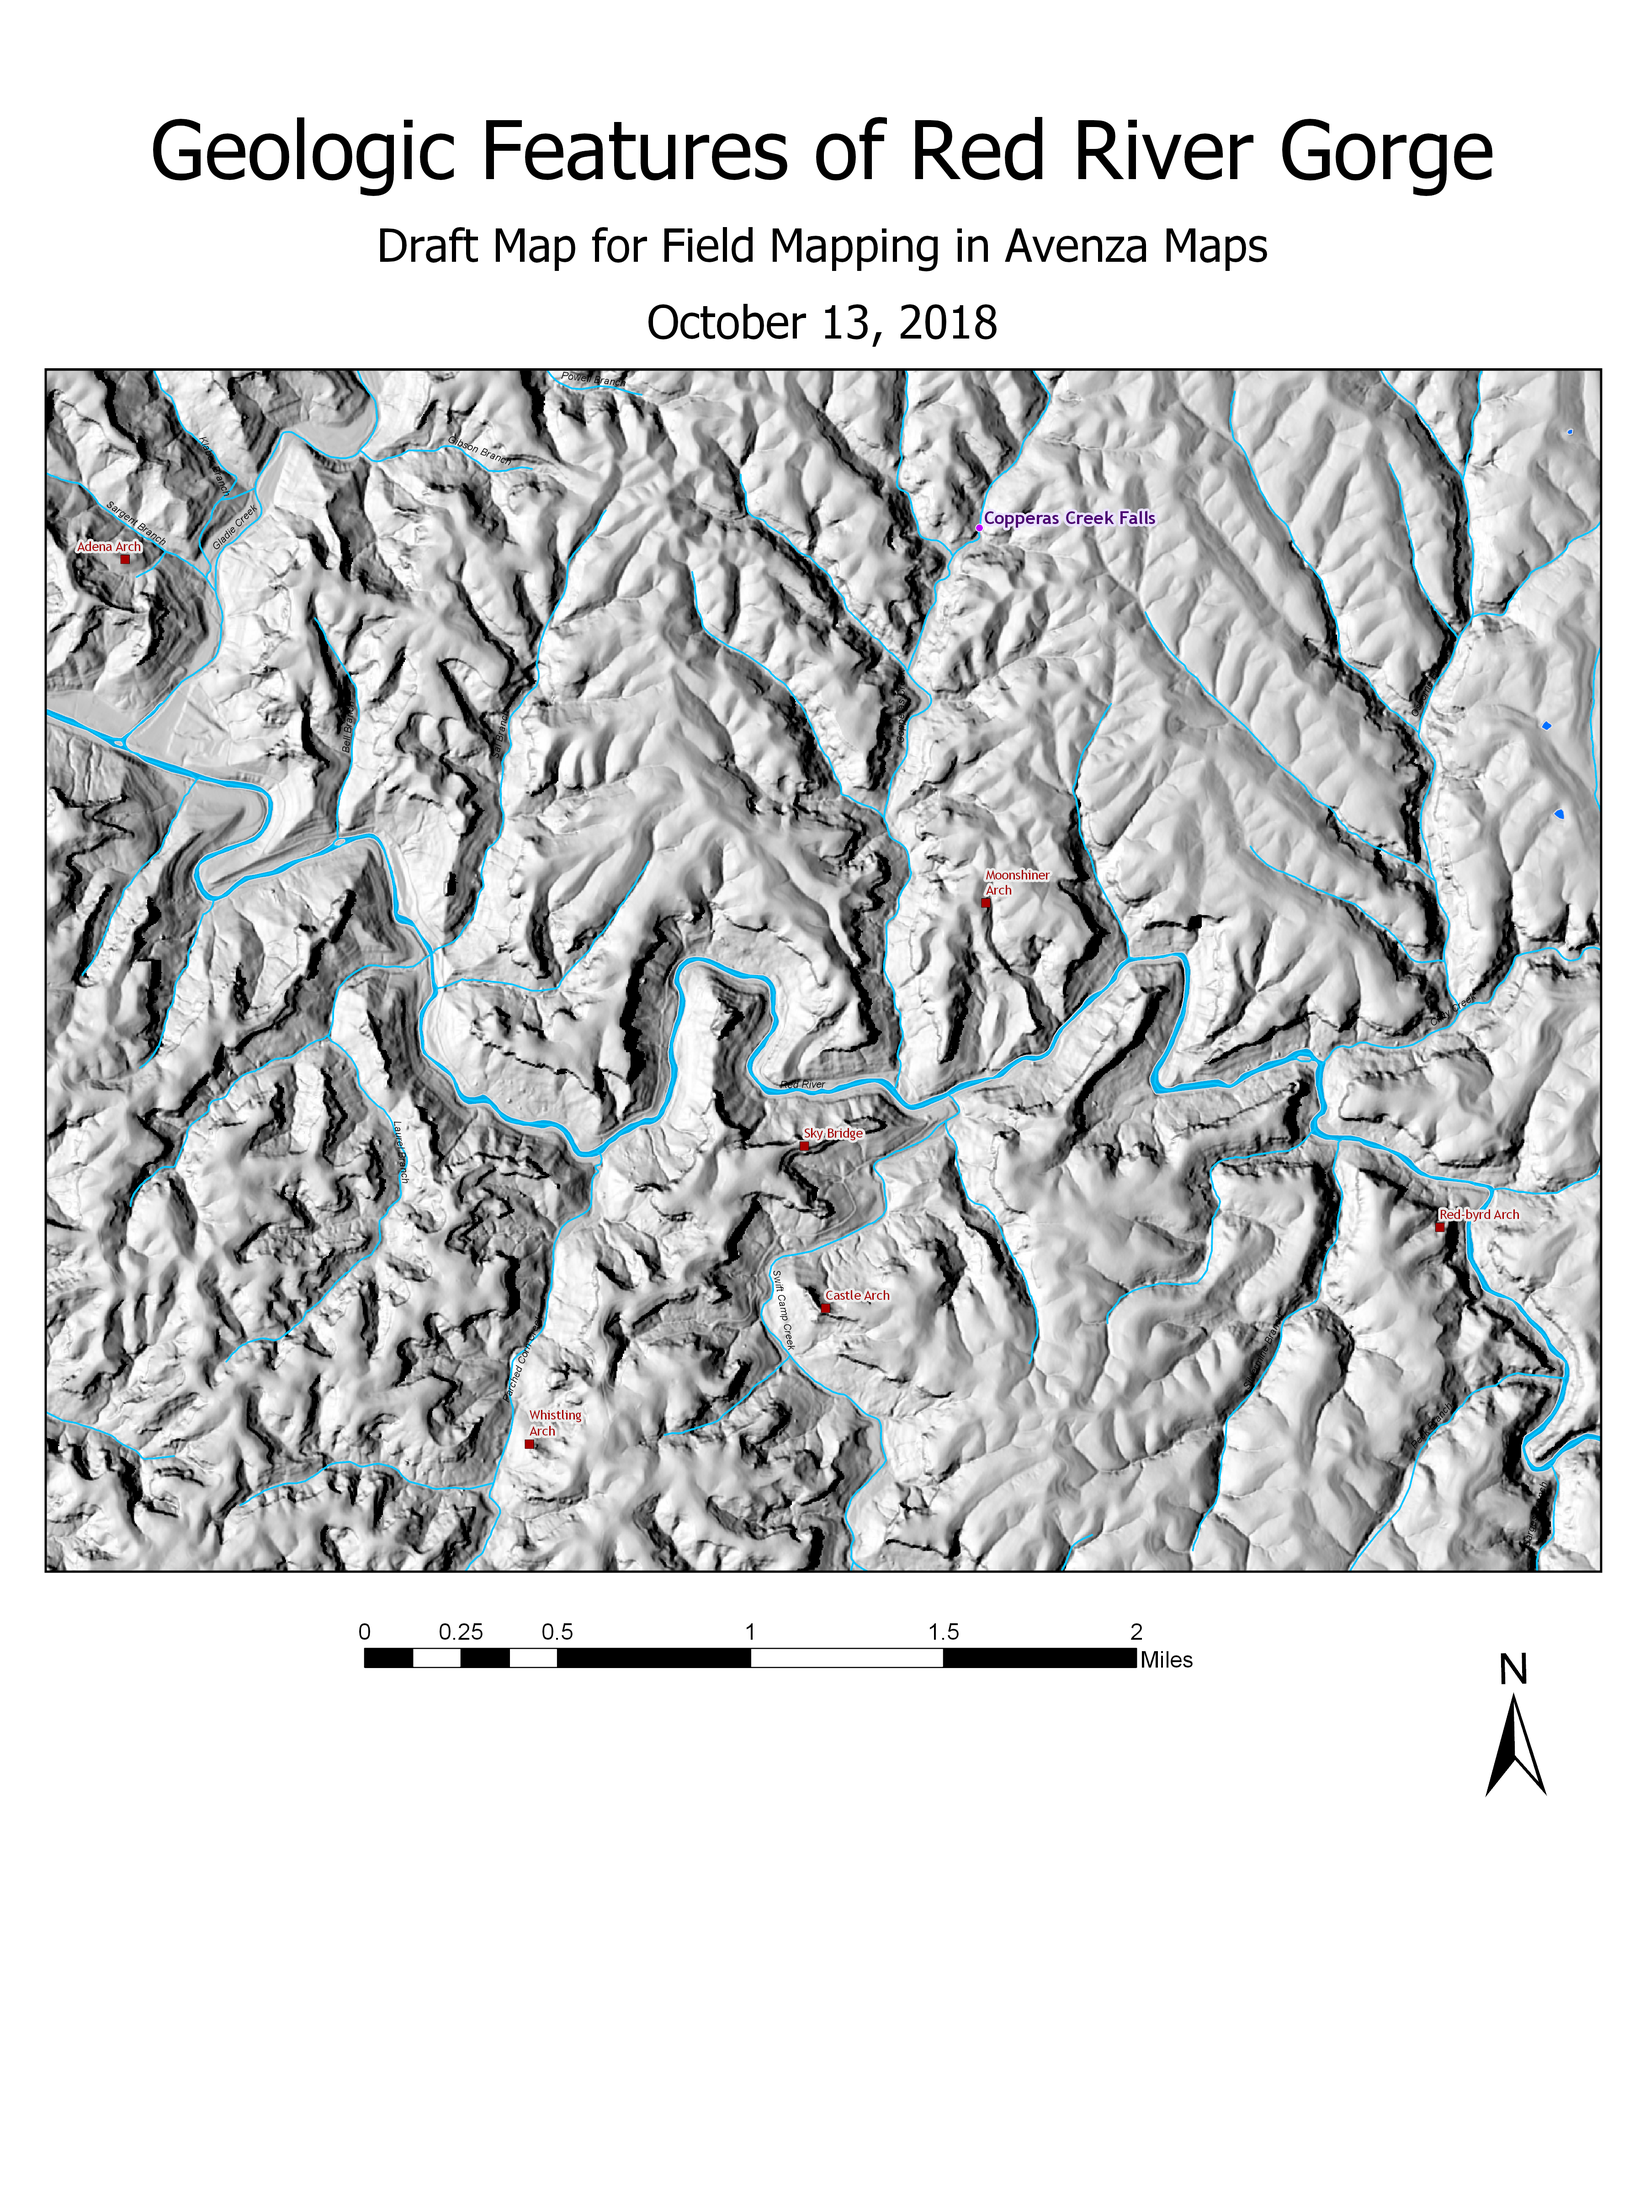
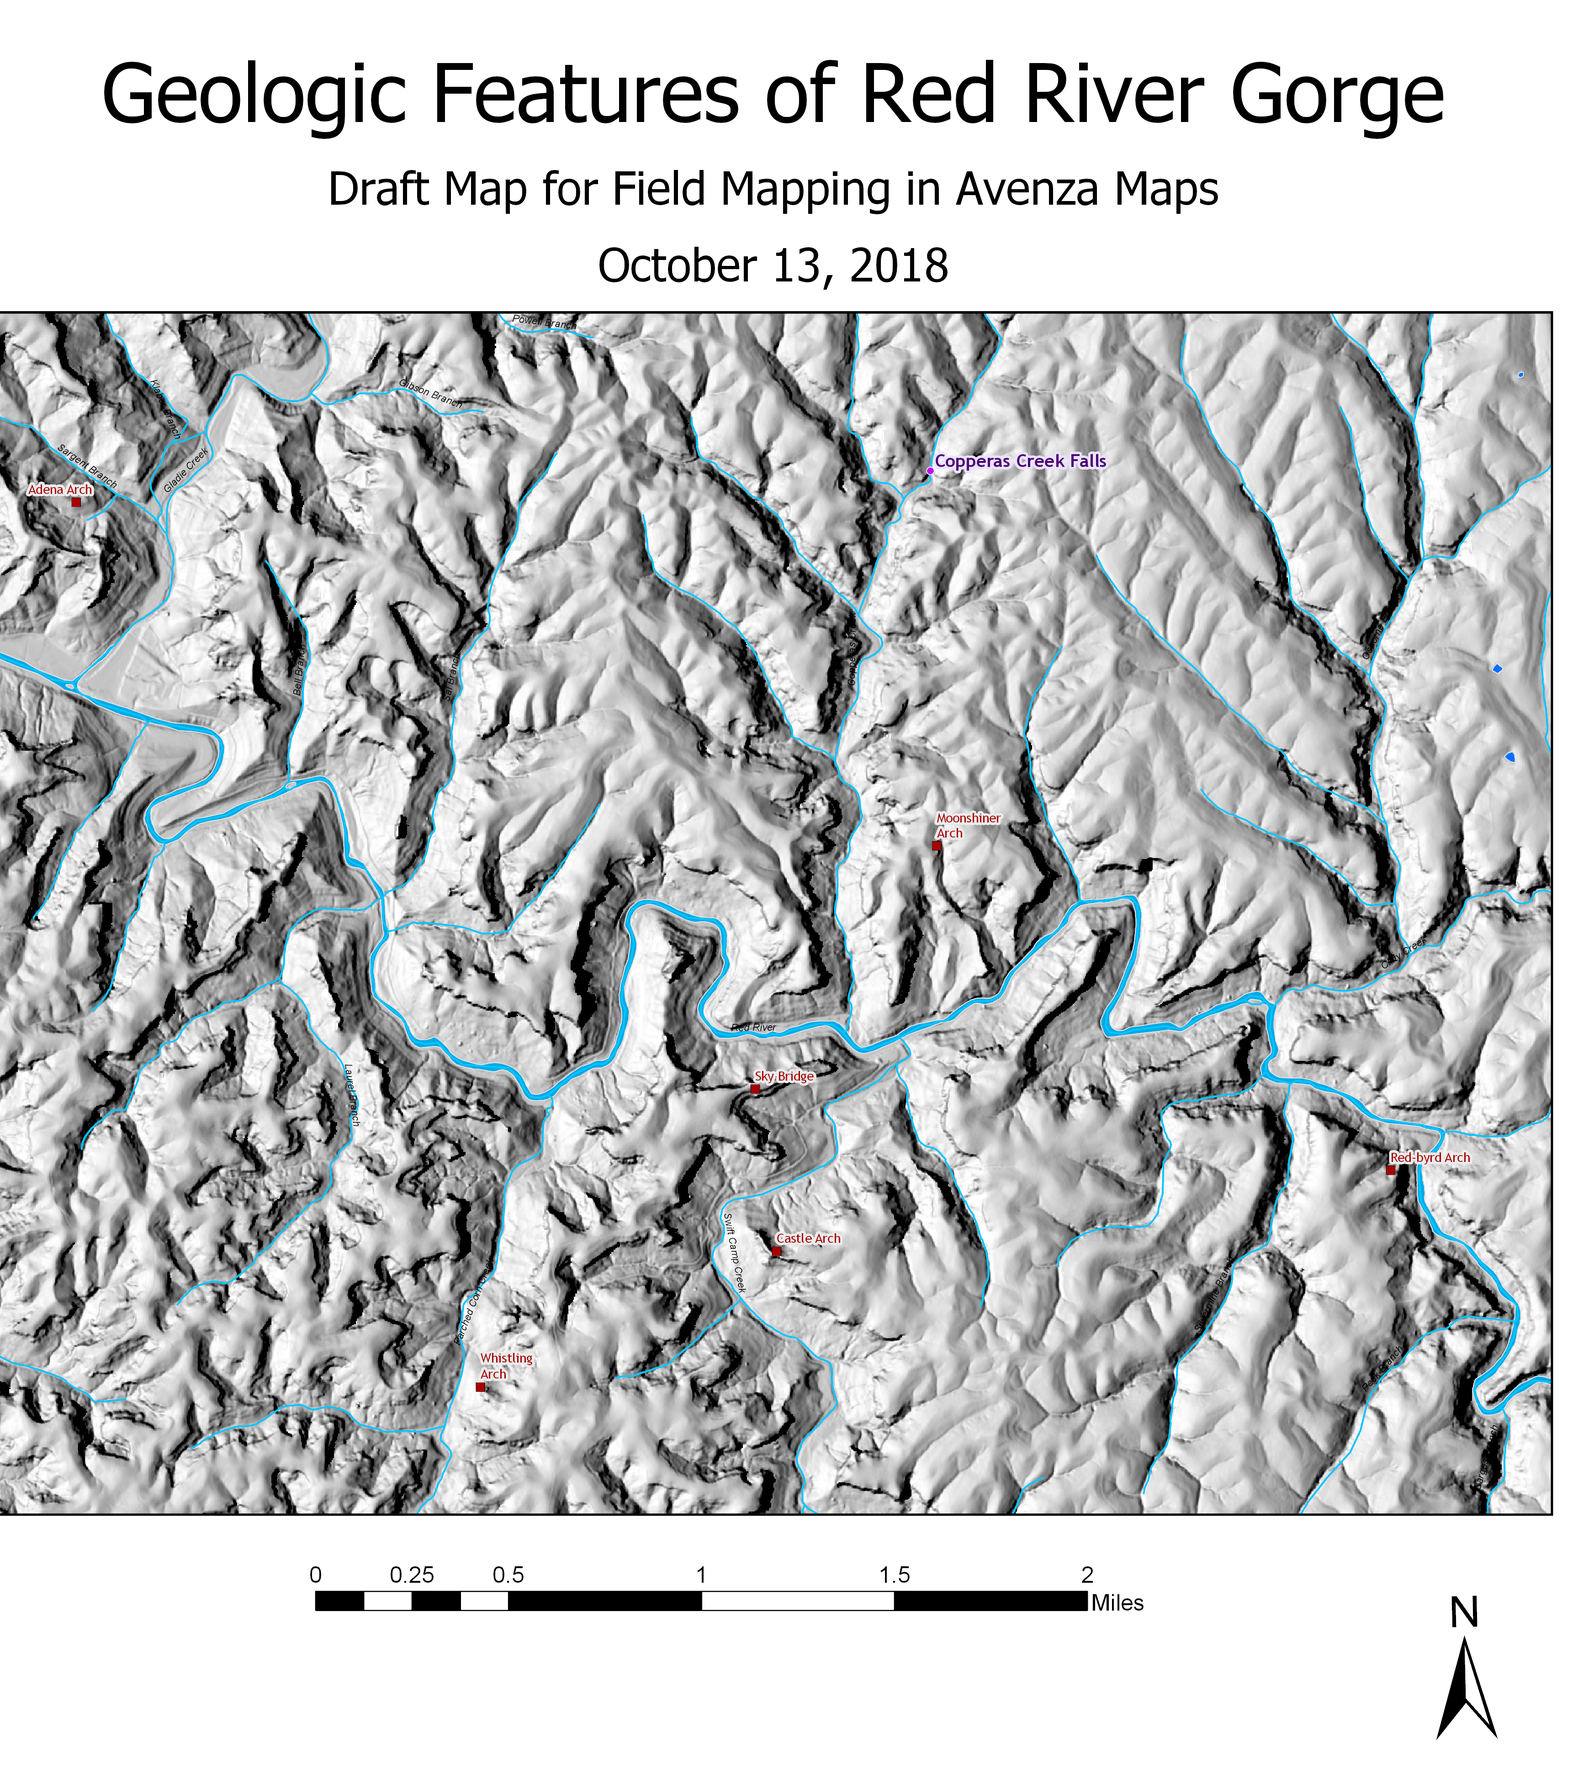
finished layout of Explore page
Cut extra white space out of my map png.
Moved paragraphs and pictures around until it almost balanced. We'll see what happens when I change the browser width, but it's a start

diff --git a/Explore/index.html b/Explore/index.html
@@ -124,13 +124,13 @@
 
 		.first-column {
 			float: left;
-			width: 48%;
+			width: 45%;
 			padding-right: 20px;
 		}
 
 		.column {
-			float: left;
-			width: 48%;
+			float: right;
+			width: 45%;
 		}
 
 		/* Clear floats after the columns */
@@ -182,24 +182,39 @@
 			<hr> 
 			<div class="row">
 				<div class="first-column">
-			
+			<br>
 			<p class="p3">The waterfall in pictures</p>	
-			<p>Approaching the falls on Copperas Creek is deceptive -- you can hear it before you can see it. The creek turns to the right while the trail goes to the left, up a small rise. There in the distance, through the rhododendron leaves, you can see the falls pouring over the rocky edge, but you can't see how tall it is.  
+			<p>Approaching the falls on Copperas Creek is deceptive -- you can hear it before you can see it. The creek turns to the right while the trail goes to the left, up a small rise. There in the distance, through the rhododendron leaves, you can see the falls pouring over the rocky edge, but you can't see how tall it is.</p>
 				<img class="max-image-width" src="..\photos\DSC01106.JPG" alt="approach to Copperas Falls">
-				<p class="p2">First approach to Copperas Falls, a glimpse</p>
-					
-				<p>Indian Fort Mountain is located in Berea, Kentucky and is managed by <a href="https://www.berea.edu/forestry/indian-fort-mountain-trail/">Berea College's College of Forestry</a> and is part of the larger Berea College Forest, one of oldest private forests in Kentucky. It was established in 1898. The trails are open to the public foot traffic but no camping is allowed.</p>
-				<p>Some notable destinations include the Indian Fort Lookout, East Pinnacle, Buzzard's Roost, Basin Mountain, and West Pinnacle. Elevation relief on the trail network is 700 vertical feet. 7.6 miles of trail exist here. </p>
-				<p>
+				<p class="p2">First approach to Copperas Falls, a glimpse</p>  
+				<p>Coming a little closer, its height is more apparent.</p>
+				<img class="max-image-width" src="..\photos\DSC01107.JPG" alt"Most of the Falls is in view">    
+				<p class="p2">From the top of the rise, most of the falls is in view</p>    
+				<p>The falls pours over a narrow area of the rock shelf, but the shelf itself creates a rock shelter which curves around almost a third of the shallow plunge pool. The pool area is sandy, and sand and rock cover the slope up under the rock shelf.</p>    
+				<img class="max-image-width" src="..\photos\DSC01116.JPG" alt"Water plunges over a narrow area">    
+				<p class="p2">Copperas Creek Falls dropping into a shallow, sandy plunge pool.</p> 
+						
 			</div>
-			<div class="column">    
-			<p></p>
-
-			<p>Coming a little closer, its height is more apparent.</p>
-				<img class="max-image-width" src="..\photos\DSC01107.JPG">    
-				<p class="p2">Most of the falls is in view</p>
+			<div class="column">     
+			
+				<p>I did not use an application to measure the falls at the site, but I did measure it from the ArcGIS Pro 3-D scene, at about 43 feet tall. On the day of the site visit, it seemed about 5 or 6 feet wide.    
+				<br>
+				<p>	The website <a href="http://kywaterfalls.com/dir/index.php/cumberland-plateau/1806-copperas-creek-falls">Kentucky Waterfalls</a> gives the height as 42 feet. </p>
+				<p>On the right when facing the falls is a steep hill made of material which has fallen over time from the overhanging edge. From that hill is a good view of falls, and you can really get a sense of the size of the rock shelter.</p>
+				<img class="max-image-width" src="..\photos\DSC01149.JPG" alt="View from the hill on the right">
+				<p class="p2">View from the hill on the right</p>  
+			
+			<p>You also can see a bit of the landscape around the top of the falls.</p>
+			<img class="max-image-width" src="..\photos\DSC01134.JPG" alt="Closeup of the lip of the falls">
+			<p class="p2">Looking at the lip of the falls, and creek bank beyond.</p>  
+			<br>
+			<p>The following picture gives another view of the overhang, to the left of the falls.</p>		  
+			<img class="max-image-width" src="..\photos\DSC01142.JPG" alt="Left side of rock shelter">
+			<p class="p2">Looking from the hill on the right into the overhang on the left.</p>  
+			<br>
+						   
 			</div>
-		
+		</div>
 
 		<!-- More info about you -->
 		<hr>
@@ -211,12 +226,7 @@
 				<a href="https://www.linkedin.com/in/zrm4landscape">zrm4landscape</a> </li>
 			
 		</ul>
-		<p>
-				<img src="https://uky-gis.github.io/maps/us-arches/photos/don_juan_garden.jpg" alt="Don Juan Garden" width="100%">
-				<div class="linkbox">Don Juan's Garden photograph by UK Geography</div>
-				<a href="https://uky-gis.github.io/maps/us-arches/full">Link to map of US named arches (data from US GNIS)</a>
-	   
-		</p>
+		<
 	</section>
 
 	<!-- Load the library that provides interactive map functionality -->
